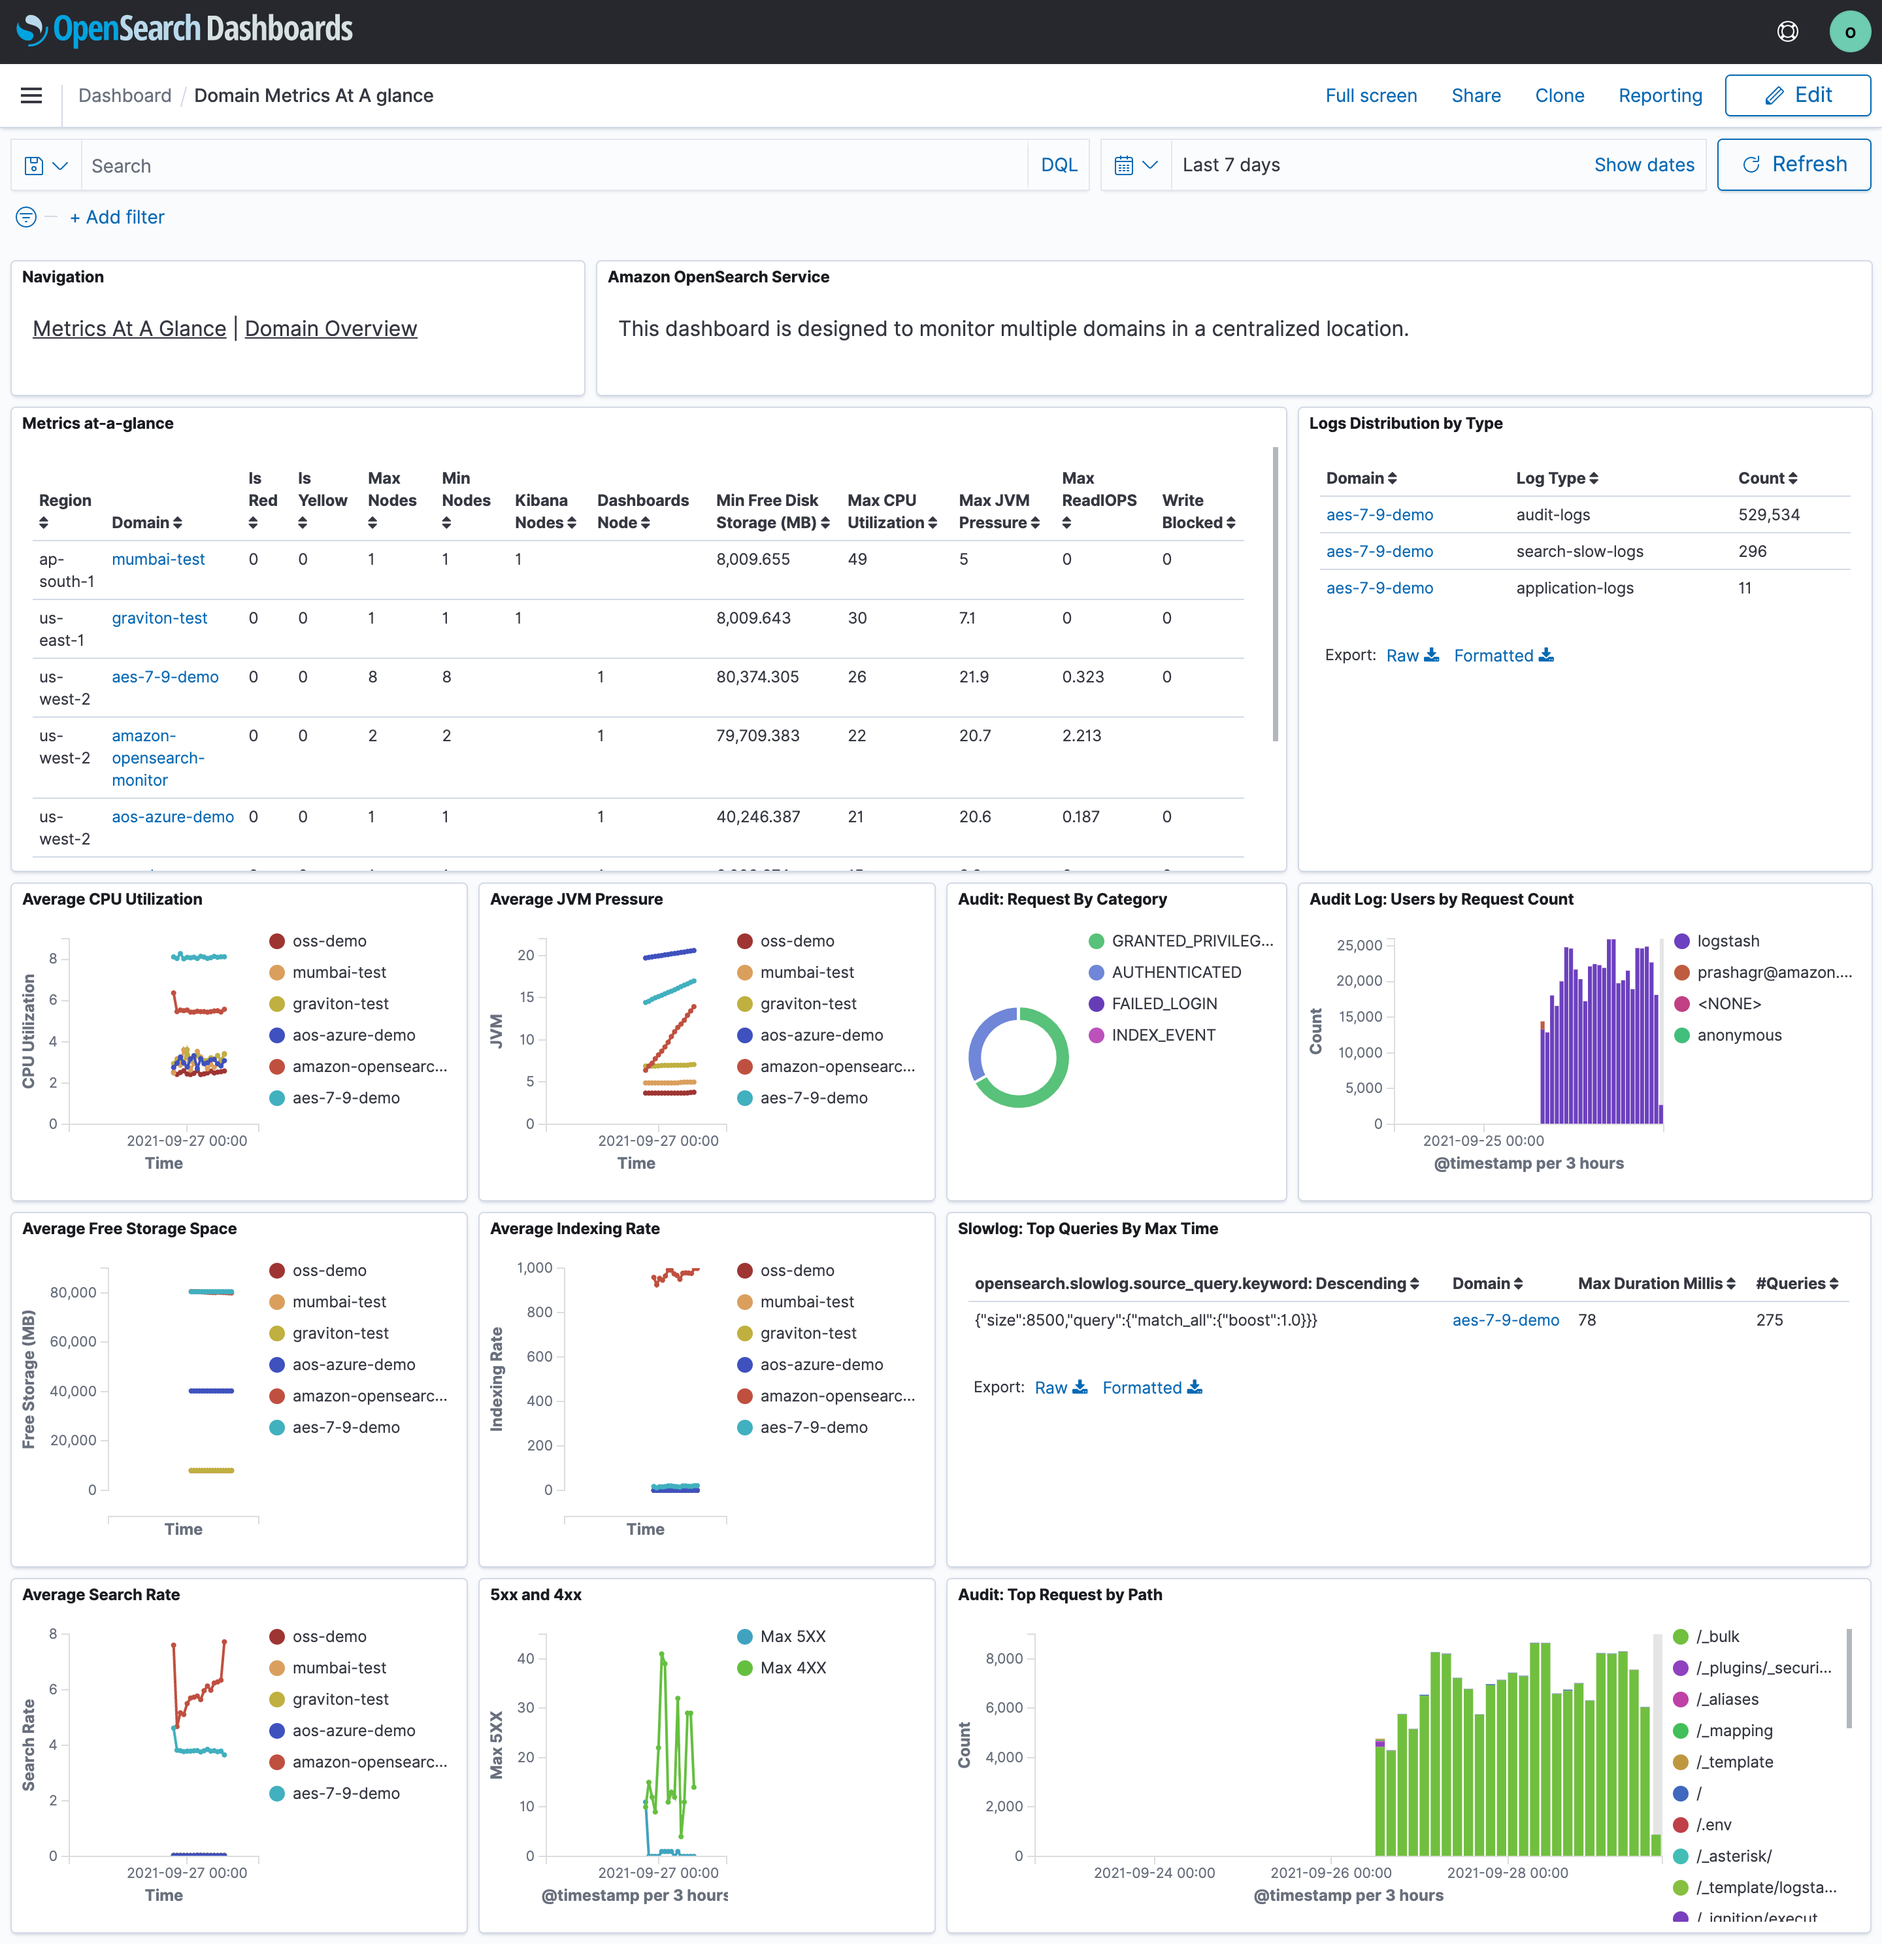
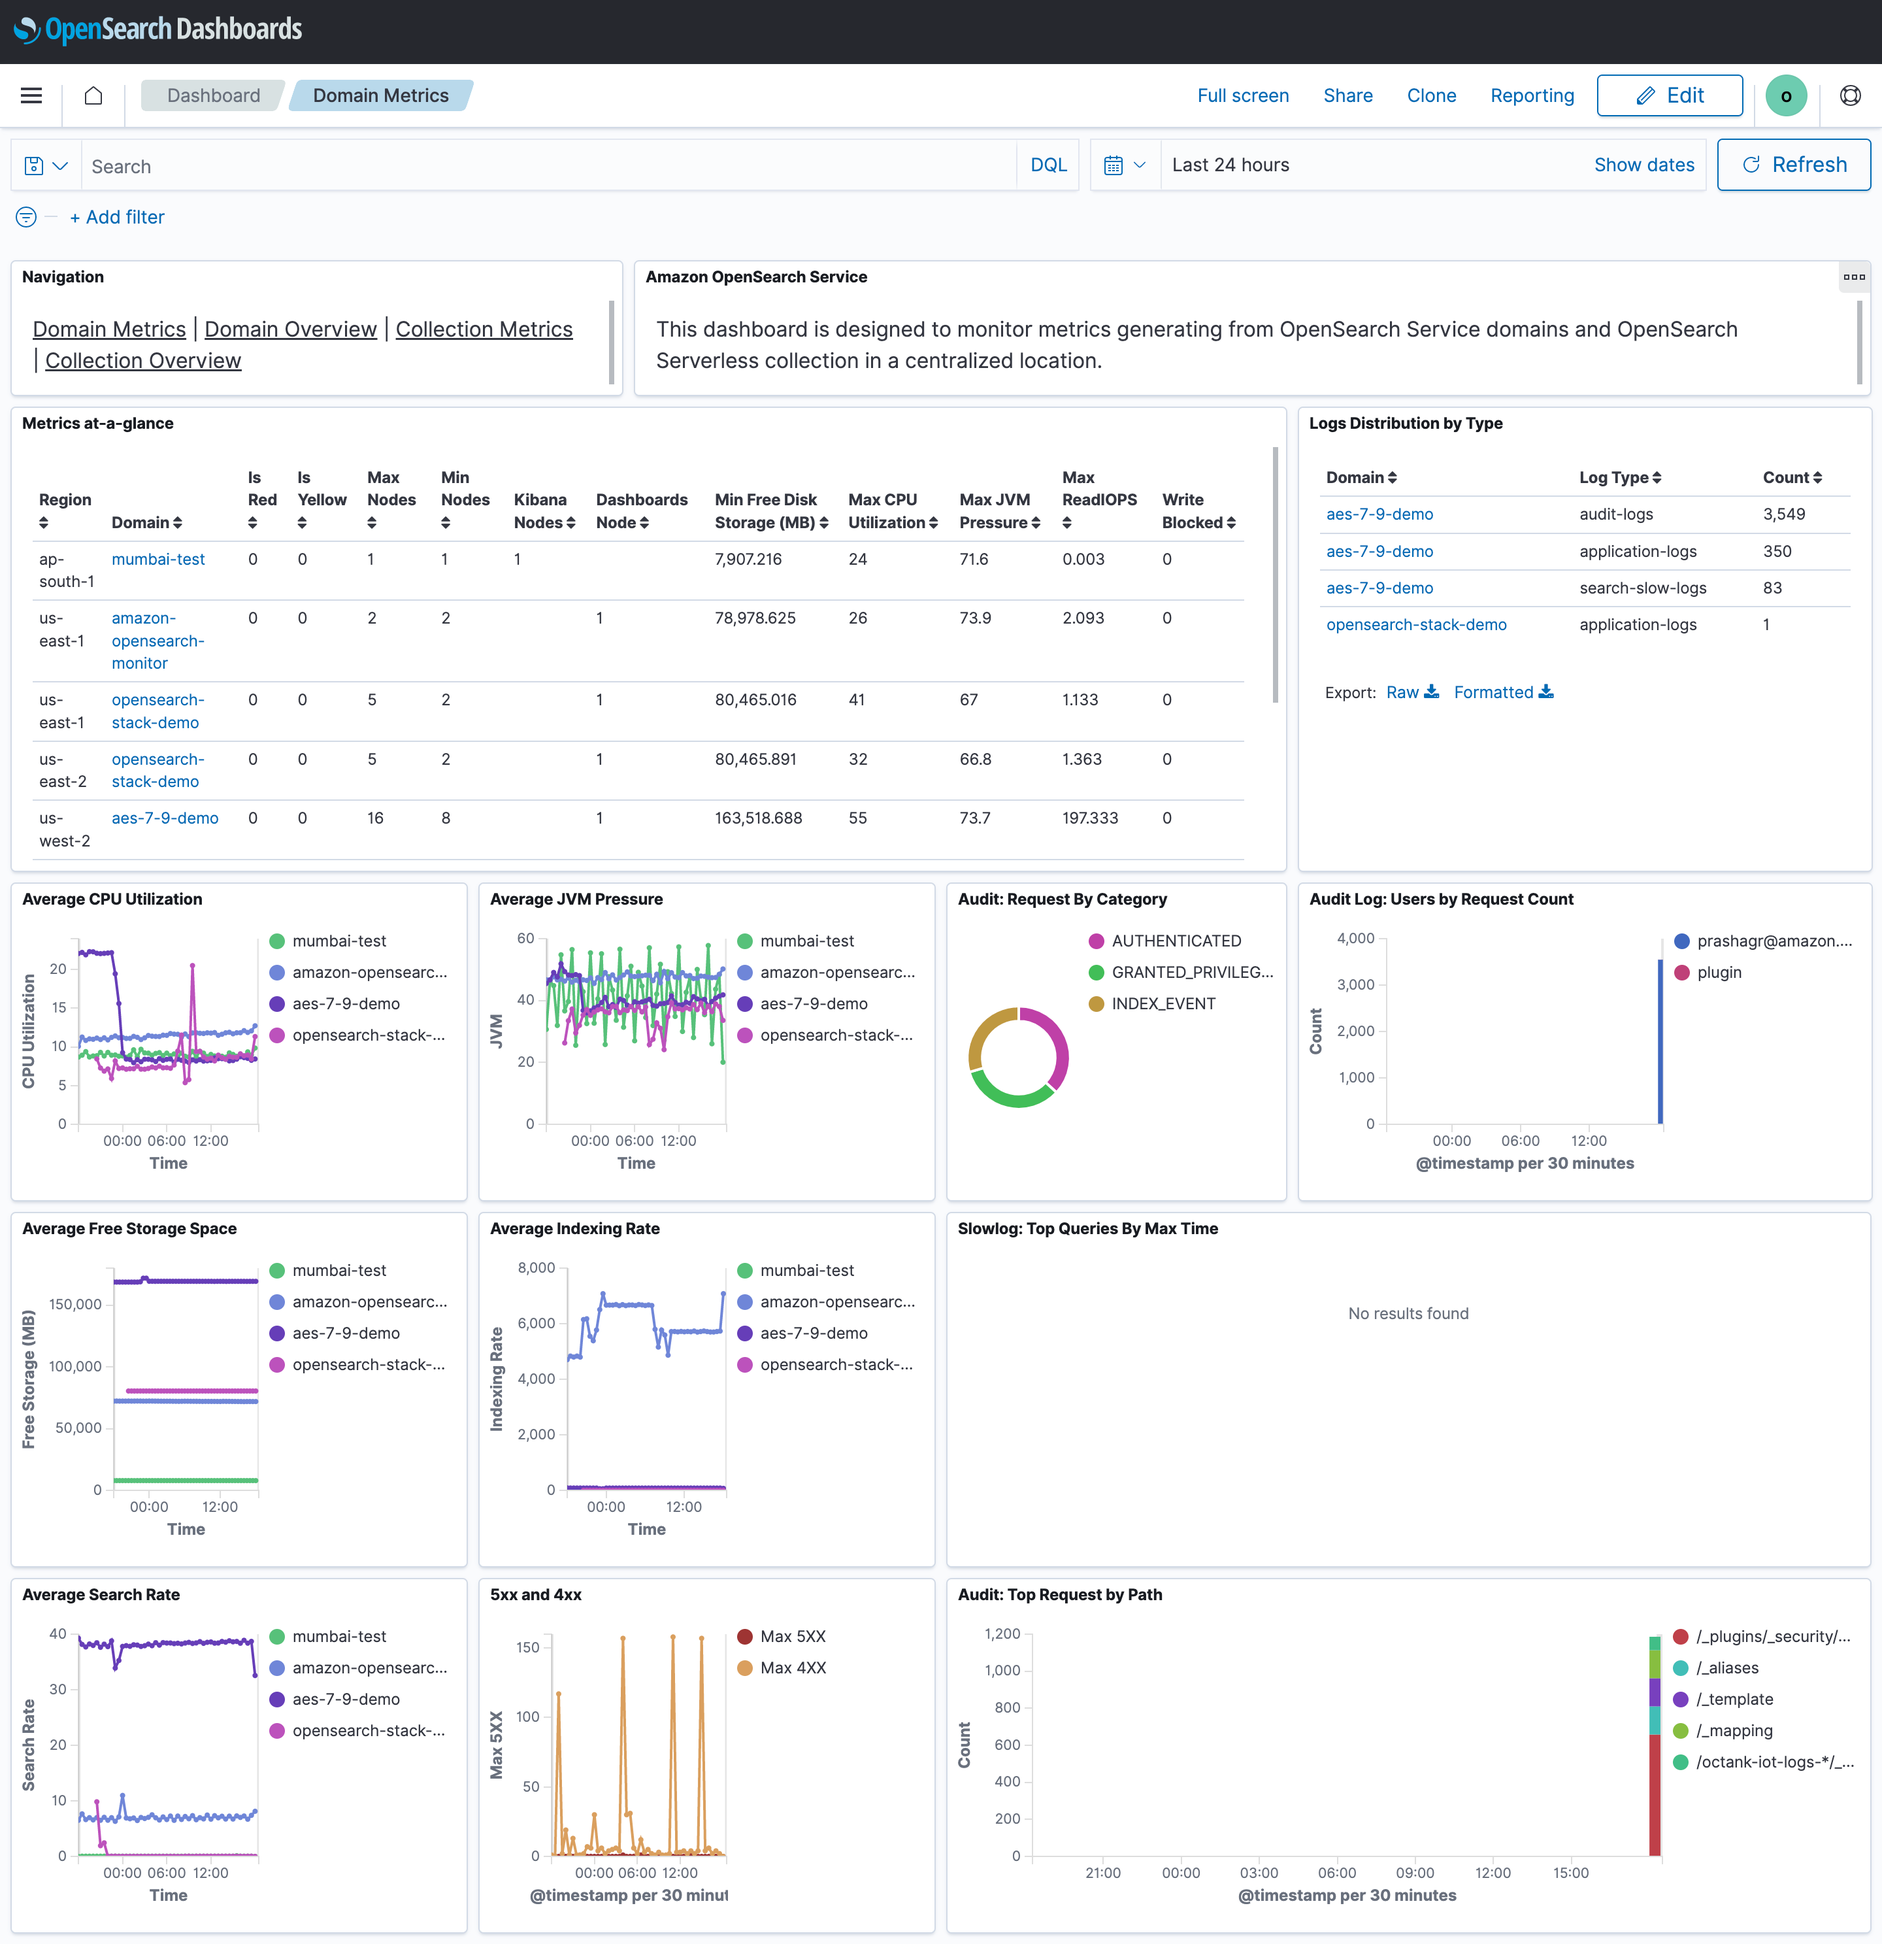
Update ReadMe for serverless

diff --git a/README.md b/README.md
@@ -1,6 +1,6 @@
 # Amazon OpenSearch Service Monitor
 
-This repository contains step by step demonstration to setup monitoring Stack for Amazon OpenSearch Service domains across all specified regions. This example uses AWS CDK and Python.
+This repository contains step by step demonstration to set up monitoring Stack for Amazon OpenSearch Service domains and Amazon OpenSearch Serverless collections across all specified regions. This example uses AWS CDK and Python.
 
 
 ## Table of Contents
@@ -14,8 +14,8 @@ This repository contains step by step demonstration to setup monitoring Stack fo
 7. [Total Cost of Ownership](#tco)
 
 ## Context <a name="context"></a>
-Amazon OpenSearch Service is a fully managed service that makes it easy for you to deploy, secure, and run OpenSearch cost effectively at scale. Customers often have an issue to manage and monitor multiple Amazon OpenSearch Service domains as those metrics and logs are not available at centralized place for troubleshooting the issue. 
-This example helps you to configure a monitoring for Amazon OpenSearch Service domains, which will fetch the Cloudwatch Metrics and Cloudwatch logs from all domains at a regular interval. This example also comes with pre-built OpenSearch dashboards and Alerts. 
+Amazon OpenSearch Service is a fully managed service that makes it easy for you to deploy, secure, and run OpenSearch cost effectively at scale. Customers often have an issue to manage and monitor multiple Amazon OpenSearch Service domains and OpenSearch Serverless collection as those metrics and logs are not available at centralized place for troubleshooting the issue. 
+This example helps you to configure a monitoring for Amazon OpenSearch Service domains, and OpenSearch Serverless collections which will fetch the Cloudwatch Metrics and Cloudwatch logs from all domains/collections at a regular interval. This example also comes with pre-built OpenSearch dashboards and Alerts. 
 
 ## Architecture
 ![architecture](/images/amazon_opensearch_service_monitor_framework.png)
@@ -74,11 +74,11 @@ Create the CDK configuration by bootstrapping the CDK (one-time activity for eac
 ## Deploy <a name="deploy"></a>
 Use the AWS CDK to deploy opensearch stack for Amazon OpenSearch Service. This stack comprises of creating/deploying below components:
 1. Create VPC with 3 AZ
-2. Create and launch Amazon OpenSearch Service cluster (version 1.0) having two t3.medium data nodes with 100GB of EBS storage volume. These 2 nodes are spread across 2 different AZ's
+2. Create and launch Amazon OpenSearch Service cluster (version 2.3) having two t3.medium data nodes with 100GB of EBS storage volume. These 2 nodes are spread across 2 different AZ's
 3. Create Dynamo DB table for timestamp tracking 
 4. Create lambda function to fetch Cloudwatch metrics across all regions and all domains. By default it fetches the data every 5 min, which can be changed if needed. 
 5. Create and launch an EC2 instance which acts as SSH tunnel to access dashboards, as all of our setup is secured and in VPC
-6. Create default OpenSearch dashboards to visualize metrics across all domains
+6. Create default OpenSearch dashboards to visualize metrics across all domains and collections
 7. Create and setup default e-mail alerts to newly launched Amazon OpenSearch Service cluster
 8. Create Index template and Index State Management (ISM) policy to delete indices older than 366 days. (can be changed to different retention if needed)
 9. Monitoring stack has an option to enable Ultra Warm (UW) which is disabled by default, Change settings [in this file](opensearch/opensearch_monitor_stack.py) to enable UW.
@@ -112,7 +112,7 @@ The CDK will prompt to apply Security Changes, input "y" for Yes.
 -----
 
 ## Pre-built Monitoring Dashboards <a name="dashboards"></a>
-  Monitoring domain comes with pre-built dashboards which can be accessed as below:
+  Monitoring domain comes with pre-built dashboards for OpenSearch Service and OpenSearch Serverless collection metrics, these dashboards can be accessed as below:
   1. Login to Dashboards: Access OpenSearch Dashboards with an IP obtained after the deployment and login as below
       ![Dashboards login screen](/images/opensearch_dashboards_login.png)
 
@@ -122,17 +122,24 @@ The CDK will prompt to apply Security Changes, input "y" for Yes.
   3. After clicking on dashboard, it displays list of the dashboard which comes as default
       ![OpenSearch Dashboards List](/images/opensearch_dashboards_list.png)
 
-   - **Domain Metrics At A glance** : This gives a 360 degree view of all Amazon OpenSearch Service domains across the regions. 
+   - **Domain Metrics** : This gives a 360 degree view of all Amazon OpenSearch Service domains across the regions. 
       ![Domain Metrics At A glance](/images/opensearch_domain_metrics_at_a_glance.png)
    
    - **Domain Overview** :  This gives a more detailed metrics for a particular domain, could help to deep dive for issues into a specific domain. 
       ![Domain Overview](/images/opensearch_domain_overview.png)
 
+   - **Serverless Collection Metrics** : This gives a 360 degree view of all Amazon OpenSearch Serverless collections across the regions.
+     ![Domain Metrics At A glance](/images/opensearch_collection_metrics.png)
+
+   - **Serverless Collection Overview** :  This gives a more detailed metrics for a particular collection, could help to deep dive for issues into a specific collection.
+     ![Domain Overview](/images/opensearch_collection_overview.png)
+
 -----
 
 ## Pre-built Alerts <a name="alerts"></a>
 
-  Monioring domains comes with pre-built alerts as below, which could help to get notified as an email alert for event such as Cluster Health, Disk Issue, Memory Issue , JVM issue etc. 
+  Monitoring domains comes with pre-built alerts as below, which could help to get notified as an email alert for event such as Cluster Health, Disk Issue, Memory Issue , JVM issue etc.
+These alerts are built for OpenSearch Service domains metrics. 
   
 | Alert Type                    | Frequency     |
 | ----------------------------- | ------------- |
